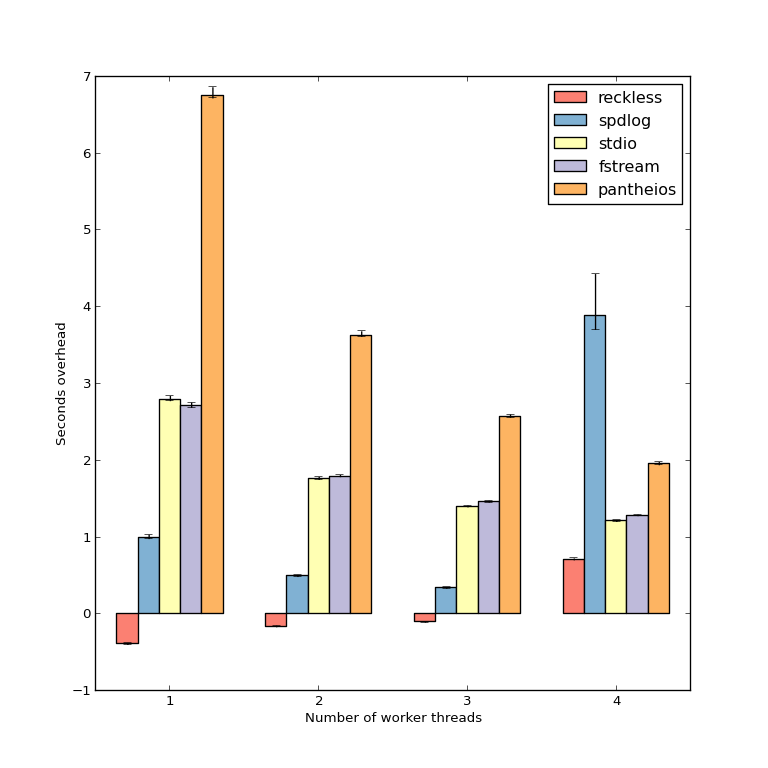
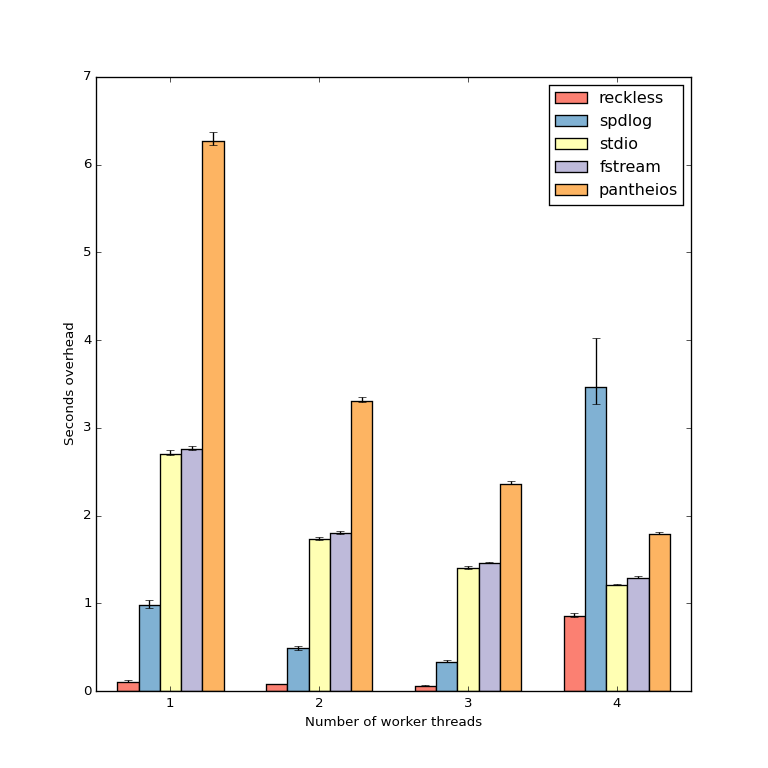
Update documentation to reflect fixed mandelbrot benchmark

diff --git a/benchmarks/statistics.py b/benchmarks/statistics.py
@@ -10,11 +10,12 @@ ALL_TESTS = ['periodic_calls', 'call_burst', 'write_files', 'mandelbrot']
 THREADED_TESTS = {'call_burst', 'mandelbrot'}
 
 def main():
-    opts, args = gnu_getopt(argv[1:], 'l:t:c:n:p:h', ['libs=', 'tests=', 'threads=', 'normalizer=', 'precision=', 'help'])
+    opts, args = gnu_getopt(argv[1:], 'l:t:c:n:o:p:h', ['libs=', 'tests=', 'threads=', 'normalizer=', 'offset=', 'precision=', 'help'])
     libs = None
     tests = None
     threads = None
     normalizer = None
+    offset = None
     precision = None
     show_help = len(args) != 0
 
@@ -27,6 +28,8 @@ def main():
             threads = parse_ranges(value)
         elif option in ('-n', '--normalizer'):
             normalizer = float(value)
+        elif option in ('-o', '--offset'):
+            offset = float(value)
         elif option in ('-p', '--precision'):
             precision = int(value)
         elif option in ('-h', '--help'):
@@ -40,6 +43,7 @@ def main():
             '-l,--libs       LIBS       comma-separated list of libs to plot\n'
             '-c,--threads    THREADS    thread-counts to include in a comma-separated list (e.g. 1-2,4)\n'
             '-n,--normalizer NORMALIZER Normalizer value\n'
+            '-o,--offset     OFFSET     Offset/displacement for values\n'
             '-p,--precision  PRECISION  Precision.\n'
             '-h,--help        show this help\n'
             'Available libraries: {}\n'
@@ -54,7 +58,7 @@ def main():
     if threads is None:
         threads = list(range(1, 5))
 
-    make_stats(libs, tests, threads, normalizer, precision)
+    make_stats(libs, tests, threads, normalizer, offset, precision)
     return 0
 
 def parse_ranges(s):
@@ -73,12 +77,14 @@ def parse_ranges(s):
         result.extend(list(range(start, end+1)))
     return result
         
-def make_stats(libs, tests, threads_list, normalizer=None, precision=None):
+def make_stats(libs, tests, threads_list, normalizer=None, offset=None, precision=None):
     def single_file_stats(filename, columns):
         with open(filename, 'r') as f:
             data = f.readlines()
         data = np.array([float(x) for x in data])
         mean = np.mean(data)
+        if offset is not None:
+            mean -= offset
         if normalizer is not None:
             mean = mean/normalizer
             data = [x/normalizer for x in data]

diff --git a/doc/performance.md b/doc/performance.md
@@ -109,7 +109,7 @@ The specifications of the test machine are as follows:
 * Western Digital Black WD7501AALS 750GB mechanical disk.
 * 8 GiB RAM.
 * gcc 4.8.4.
-* Linux kernel 3.14.14.
+* Linux kernel 3.18.11.
 
 For the scenarios that measure individual call timings, measurements were made
 according to the article “[How to Benchmark Code Execution Times on Intel IA-32
@@ -239,21 +239,8 @@ various alternatives, where “nop” does not perform any logging. The code is
 trivally parallelizable and is written to compute chunks of the image in
 several threads. Each separate worker thread writes to the log individually.
 
-I have difficulty explaining these charts fully, and hope that someone with a
-better understanding will check out the benchmark code and help with some
-insights. The benchmarks that use reckless perform *better than the benchmarks
-that perform no logging at all*. In other words, doing more work is taking
-less time. It gives me an eerie feeling of similarity to Stephen King’s [Mrs.
-Todd’s Shortcut](http://en.wikipedia.org/wiki/Mrs._Todd%27s_Shortcut). My
-hypothesis is that the short interruptions to push data on the log queue is
-enough to give the CPU cache time to prepare for the next batch of pixels. I
-do not think there is a measurement error, since the measurement itself is
-very simple (one timestamp at the beginning and one at the end, then print the
-difference).  Since the data is based on 100 separate runs a random fluke is
-not likely.
-
 ![Bar chart showing total running
-time](images/performance_mandelbrot_difference.png)
+time relative to no-logging base case](images/performance_mandelbrot_difference.png)
 
 If we chart just the difference from the “nop” case then we get the above
 result. The error bars show the interquartile range (IQR). For each worker
@@ -261,7 +248,38 @@ thread added the overhead decreases, because multiple CPU cores are
 cooperating to schedule log messages. However, with 4 worker threads the
 overhead increases significantly for both of the asynchronous alternatives.
 This can be explained by the fact that there is no CPU core available for the
-background thread to perform its work.
+background thread to perform its work. Note, however, that reckless still
+performs better than the synchronous alternatives.
+
+The average overhead for the single-thread case relative to reckless is:
+
+  Library | Relative time | IQR
+----------|---------------|-----
+ reckless |          1.00 | 0.22
+   spdlog |          7.80 | 0.66
+    stdio |         21.31 | 0.46
+  fstream |         21.73 | 0.41
+pantheios |         49.37 | 1.21
+
+With three worker threads we have:
+
+  Library | Relative time |  IQR
+----------|---------------|-----
+ reckless |          1.00 | 0.12
+   spdlog |          5.34 | 0.41
+    stdio |         22.01 | 0.46
+  fstream |         22.81 | 0.30
+pantheios |         37.53 | 0.60
+
+And finally, with four worker threads, we have:
+
+  Library | Relative time |    IQR
+----------|---------------|-------
+ reckless |          1.00 |  0.054
+    stdio |          1.42 |  0.024
+  fstream |          1.52 |  0.027
+pantheios |          2.24 |  0.035
+   spdlog |          4.66 |  0.935
 
 Conclusions
 -----------

diff --git a/README.md b/README.md
@@ -1,4 +1,4 @@
-![Performance chart](doc/images/performance_periodic_calls_all.png)
+[![Performance chart for a quad-core CPU](doc/images/performance_mandelbrot_difference.png)](doc/performance.md)
 
 Introduction
 ============
